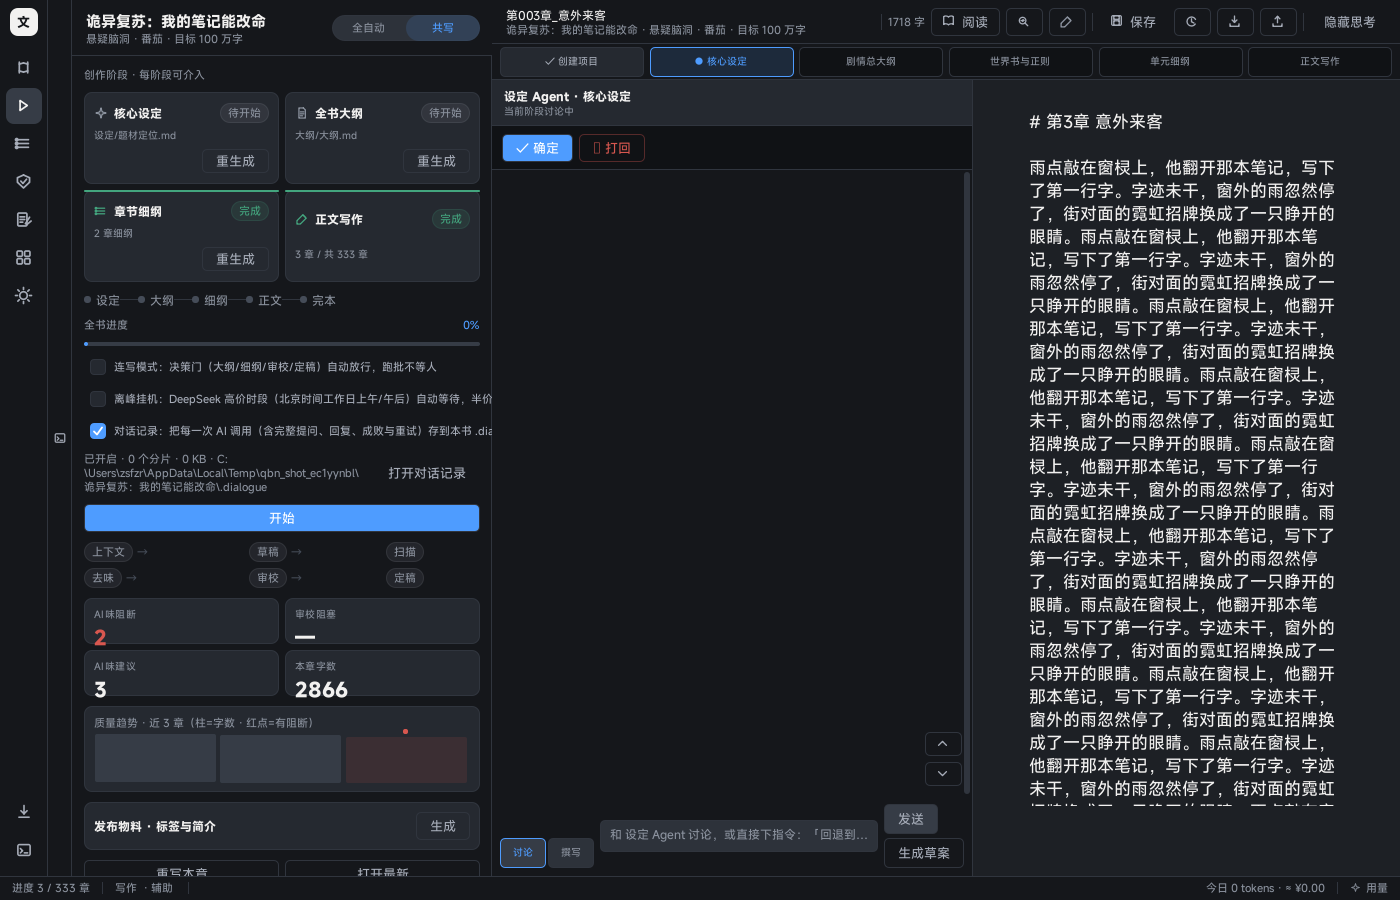
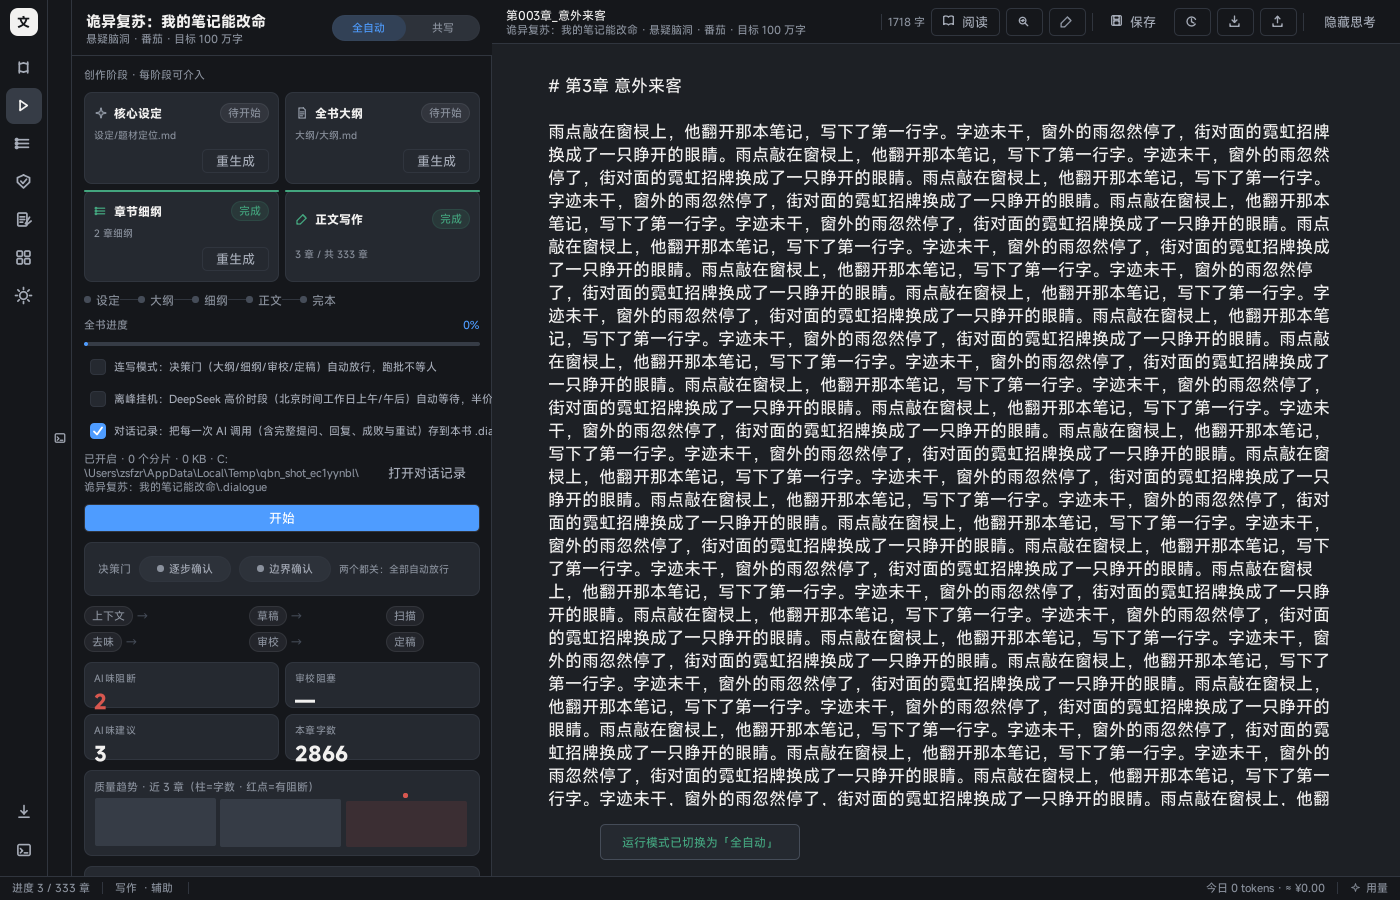
C03: 文档止血（hero/数字/check_docs；latest.json 待 S3 后）——hero 位 hero_cw.png 原与 shot_co_writing.png 字节级相同，改内容为 shot_pipeline.png（自动档驾驶舱）并同步 :20 说明、撤销 :179 重复贴图；README:383 1061 passed→实跑 collect 1244（tests/unit --co 口径，探针 50 核对一致）；CHANGELOG:1229 死锚 README.md#使用指南→examples/README.md；新增 scripts/check_docs.py 五

diff --git a/scripts/check_docs.py b/scripts/check_docs.py
@@ -1,0 +1,298 @@
+# -*- coding: utf-8 -*-
+"""check_docs.py —— 文档口径核对脚本（QW-D3 / C03）。
+
+五项检查，全部红/绿可判定（规格见 docs/落地计划附录A C03 卡 + _scratch/superiter/w4_docs.md §4.2）：
+
+  1. 数字口径：README.md / README.en.md 中的测试数与探针数必须等于本机实跑
+     `pytest tests/unit --collect-only` 的收集数与 tests/probe_*.py 实际个数
+     （抓的就是 README「1061 passed」「EN 594 tests / 44 probe」这类数字腐烂）。
+     口径说明：README 测试节的命令是 `pytest tests/unit -q`，所以核对基准取
+     tests/unit 收集数（全仓 --co 口径更大，不混用）。
+  2. 手册行数下限：docs/用户手册_v1.md ≥ 200 行（当前 236；手册 v2 扩容（C40，≥500）
+     落地后把 MANUAL_MIN_LINES 提到 500）。
+  3. 内链有效：扫描 README.md / README.en.md / CHANGELOG.md / docs/用户手册_v1.md /
+     docs/排障_v1.md / docs/README.md 的全部 markdown 相对链接（含图片），
+     目标文件不存在即红；指向 README.md / README.en.md 的 #锚点与同文件 #锚点
+     按 GitHub slug 规则核对（抓的就是 CHANGELOG 曾出现的 `README.md#使用指南` 死锚）。
+  4. 排障页文案对照：docs/排障_v1.md「错误对照表」每条屏幕文案必须能在 app/ 源码
+     里 grep 到（逐字碎片匹配：f-string 变量处写「…」或照抄 {name}，变量两侧的文案
+     必须逐字命中）——防文档文案与屏幕文案漂移，这是排障页的生命线。
+     表外章节（SmartScreen 等系统级提示）不在 app 内，不参与本检查。
+  5. 排障对照表条数 ≥10（当前 15+，每条含屏幕原文 → 含义 → 动作 → 报障包出口）。
+
+范围外（待其他批次后补，勿在此提前红灯）：
+  - latest.json 数字核对：待 S3 的 latest.json 改动合入后补（C03 该部分跳过）。
+  - CI 接线：待 S3 的 .github/workflows/tests.yml 改动合入后，在现有 job 尾部加一步
+    `python scripts/check_docs.py`（本轮不接 CI，本脚本仅本地手跑）。
+  - i18n 声明行检查项（README 顶部「界面语言：简体中文」声明存在性）：待 C12-i18n
+    落地后作为第 6 项检查扩入（TODO）。
+
+用法：.venv/Scripts/python.exe scripts/check_docs.py   （全绿退出码 0，任一红退出码 1）
+"""
+
+import re
+import subprocess
+import sys
+from pathlib import Path
+
+ROOT = Path(__file__).resolve().parent.parent
+
+MANUAL_MIN_LINES = 200          # 检查 2：手册行数下限（v2 扩容后提到 500）
+TROUBLE_TABLE_MIN_ROWS = 10     # 检查 5：排障对照表条数下限
+DOC_LINE_MIN_PREFIX = 6         # 检查 4：文案逐字前缀的最短长度（字符）
+
+LINK_SCAN_FILES = [
+    "README.md",
+    "README.en.md",
+    "CHANGELOG.md",
+    "docs/用户手册_v1.md",
+    "docs/排障_v1.md",
+    "docs/README.md",
+]
+
+ANCHOR_CHECK_TARGETS = {"README.md", "README.en.md"}   # 只对两份 README 核对 #锚点
+
+
+# ---------- 工具 ----------
+
+def _read(rel: str) -> str:
+    return (ROOT / rel).read_text(encoding="utf-8", errors="replace")
+
+
+def _strip_code_blocks(text: str) -> str:
+    """去掉 ``` 围栏代码块，避免把代码示例里的链接/数字当正文核对。"""
+    return re.sub(r"```.*?```", "", text, flags=re.S)
+
+
+def github_slug(heading: str) -> str:
+    """GitHub 风格锚 slug：小写、去标点（保留中日文/字母数字/空格/连字符）、空格转 -。"""
+    t = re.sub(r"[`*_]", "", heading.strip())
+    t = t.lower()
+    out = []
+    for ch in t:
+        if ch.isalnum() or "\u4e00" <= ch <= "\u9fff" or ch in " -_":
+            out.append(ch)
+    return "".join(out).replace(" ", "-")
+
+
+def headings_of(text: str) -> set:
+    slugs = set()
+    for m in re.finditer(r"(?m)^(#{1,6})\s+(.+?)\s*$", text):
+        slugs.add(github_slug(m.group(2)))
+    return slugs
+
+
+# ---------- 检查 1：数字口径 ----------
+
+def truth_numbers() -> dict:
+    """实跑 collect-only 取单测收集数 + 数 probe_*.py 个数。"""
+    proc = subprocess.run(
+        [sys.executable, "-m", "pytest", "tests/unit", "--co", "-q",
+         "--tb=no", "-p", "no:cacheprovider"],
+        cwd=str(ROOT), capture_output=True, text=True, encoding="utf-8",
+        errors="replace", timeout=180)
+    out = proc.stdout or ""
+    m = None
+    for line in out.splitlines():
+        mm = re.search(r"(\d+) tests? collected", line)
+        if mm:
+            m = mm
+    probes = sorted(p.name for p in (ROOT / "tests").glob("probe_*.py"))
+    return {"collect": int(m.group(1)) if m else -1,
+            "probes": len(probes), "pytest_ok": proc.returncode == 0 and m is not None}
+
+
+PATTERNS_COLLECT = [
+    (re.compile(r"收集\s*(\d+)\s*项"), "收集 N 项"),
+    (re.compile(r"(\d+)\s*passed\b"), "N passed"),
+    (re.compile(r"(\d+)\s*(?:offline\s+)?tests\b"), "N tests"),
+]
+PATTERNS_PROBES = [
+    (re.compile(r"共\s*(\d+)\s*支"), "共 N 支"),
+    (re.compile(r"(\d+)\s*probe_"), "N probe_*"),
+    (re.compile(r"probe_\*\.py\s*\*{0,2}\s*(\d+)"), "probe_*.py N"),
+]
+
+
+def check_numbers(fails: list) -> dict:
+    truth = truth_numbers()
+    if not truth["pytest_ok"]:
+        fails.append(f"[1] 无法取得实跑收集数（pytest --collect-only 失败），数字口径无从核对")
+        return truth
+    for rel in ("README.md", "README.en.md"):
+        # 数字多写在代码围栏的注释里（命令即口径），此处不剥代码块、全文件扫描
+        text = _read(rel)
+        for pat, label in PATTERNS_COLLECT:
+            for mm in pat.finditer(text):
+                n = int(mm.group(1))
+                if n != truth["collect"]:
+                    fails.append(f"[1] {rel}：{label}={n} ≠ 实跑收集数 {truth['collect']}"
+                                 f"（pytest tests/unit --co 口径）")
+        for pat, label in PATTERNS_PROBES:
+            for mm in pat.finditer(text):
+                n = int(mm.group(1))
+                if n != truth["probes"]:
+                    fails.append(f"[1] {rel}：{label}={n} ≠ 探针实数 {truth['probes']}"
+                                 f"（tests/probe_*.py 个数）")
+    return truth
+
+
+# ---------- 检查 2：手册行数下限 ----------
+
+def check_manual_lines(fails: list) -> int:
+    rel = "docs/用户手册_v1.md"
+    n = len((ROOT / rel).read_text(encoding="utf-8", errors="replace").splitlines())
+    if n < MANUAL_MIN_LINES:
+        fails.append(f"[2] {rel} 只有 {n} 行 < 下限 {MANUAL_MIN_LINES}（手册被误删/大幅缩水？）")
+    return n
+
+
+# ---------- 检查 3：内链有效 ----------
+
+LINK_RE = re.compile(r"\]\(([^)\s]+)\)")
+
+
+def check_links(fails: list) -> dict:
+    stats = {"links": 0, "anchors": 0}
+    heading_cache = {}
+    for rel in LINK_SCAN_FILES:
+        path = ROOT / rel
+        if not path.exists():
+            continue
+        base = path.parent
+        text = _strip_code_blocks(path.read_text(encoding="utf-8", errors="replace"))
+        if rel not in heading_cache:
+            heading_cache[rel] = headings_of(text)
+        for mm in LINK_RE.finditer(text):
+            target = mm.group(1)
+            if target.startswith(("http://", "https://", "mailto:", "<")):
+                continue
+            stats["links"] += 1
+            if target.startswith("#"):   # 同文件锚
+                stats["anchors"] += 1
+                if target[1:] not in heading_cache[rel]:
+                    fails.append(f"[3] {rel}：同文件死锚 {target}")
+                continue
+            file_part, _, anchor = target.partition("#")
+            tp = (base / file_part).resolve()
+            if not tp.exists():
+                fails.append(f"[3] {rel}：链接目标不存在 → {target}")
+                continue
+            if anchor and file_part in ANCHOR_CHECK_TARGETS:
+                stats["anchors"] += 1
+                trel = str(tp.relative_to(ROOT)).replace("\\", "/")
+                if trel not in heading_cache:
+                    heading_cache[trel] = headings_of(_strip_code_blocks(_read(trel)))
+                if anchor not in heading_cache[trel]:
+                    fails.append(f"[3] {rel}：死锚 {target}（{trel} 无此标题锚）")
+    return stats
+
+
+# ---------- 检查 4/5：排障页文案对照与条数 ----------
+
+def _app_sources() -> tuple:
+    raws, joined = [], []
+    for p in sorted((ROOT / "app").rglob("*.py")):
+        if "__pycache__" in p.parts:
+            continue
+        t = p.read_text(encoding="utf-8", errors="replace")
+        raws.append(t)
+        # Python 隐式字符串拼接（"abc"\n"def"）拼合，容忍跨源码行的长文案
+        joined.append(re.sub(r'"\s*\n\s*"', "", t))
+    return "".join(raws), "".join(joined)
+
+
+def _fragments(span: str) -> list:
+    """把文案切成可逐字 grep 的碎片：f-string 变量写「{name}」或「…」，变量两侧都逐字。"""
+    parts = re.split(r"…|\{[^{}]*\}", span)
+    return [p.strip() for p in parts if p.strip()]
+
+
+def trouble_table_rows(text: str) -> list:
+    """取「错误对照表」小节的表格数据行（跳过表头与分隔行）。"""
+    lines = text.splitlines()
+    start = end = None
+    for i, ln in enumerate(lines):
+        if ln.startswith("#") and "错误对照表" in ln:
+            start = i
+            break
+    if start is None:
+        return []
+    for j in range(start + 1, len(lines)):
+        if lines[j].startswith("#"):   # 下一个小节
+            end = j
+            break
+    end = end if end is not None else len(lines)
+    rows = []
+    for ln in lines[start:end]:
+        if ln.strip().startswith("|") and not re.match(r"^\s*\|[\s:\-|]+\|\s*$", ln):
+            cells = [c.strip() for c in ln.strip().strip("|").split("|")]
+            if cells and cells[0].isdigit():   # 数据行（表头 #、分隔行已排除）
+                rows.append(cells)
+    return rows
+
+
+def check_troubleshoot(fails: list) -> dict:
+    rel = "docs/排障_v1.md"
+    path = ROOT / rel
+    if not path.exists():
+        return {"skip": True, "rows": 0, "grep_ok": 0}
+    text = _strip_code_blocks(path.read_text(encoding="utf-8", errors="replace"))
+    rows = trouble_table_rows(text)
+    stats = {"skip": False, "rows": len(rows), "grep_ok": 0}
+    if len(rows) < TROUBLE_TABLE_MIN_ROWS:
+        fails.append(f"[5] {rel} 错误对照表只有 {len(rows)} 条 < {TROUBLE_TABLE_MIN_ROWS}")
+    raw_src, joined_src = _app_sources()
+    for cells in rows:
+        spans = re.findall(r"`([^`]+)`", " | ".join(cells))
+        hit = None
+        for span in spans:
+            for frag in _fragments(span):
+                if len(frag) < DOC_LINE_MIN_PREFIX:
+                    continue
+                if frag in raw_src or frag in joined_src:
+                    hit = frag
+                    break
+            if hit:
+                break
+        if hit is None:
+            fails.append(f"[4] {rel} 对照表第 {cells[0]} 条：屏幕文案在 app/ 源码里 grep 不到"
+                         f"（逐字碎片均未命中）→ {' | '.join(cells)[:80]}…")
+        else:
+            stats["grep_ok"] += 1
+    return stats
+
+
+# ---------- 主流程 ----------
+
+def main() -> int:
+    fails: list = []
+    truth = check_numbers(fails)
+    manual_lines = check_manual_lines(fails)
+    links = check_links(fails)
+    trouble = check_troubleshoot(fails)
+
+    print("=" * 64)
+    print("check_docs —— 文档口径核对（规格：C03/QW-D3，w4_docs §4.2）")
+    print("=" * 64)
+    print(f"实跑口径：tests/unit 收集 {truth['collect']} 项；"
+          f"探针 {truth['probes']} 支；手册 {manual_lines} 行；"
+          f"内链 {links['links']} 条（其中锚点 {links['anchors']} 条）")
+    if trouble.get("skip"):
+        print("[4]/[5] SKIP：docs/排障_v1.md 尚未创建（待 C13）")
+    else:
+        print(f"[4] 排障文案对照：{trouble['grep_ok']}/{trouble['rows']} 条可逐字 grep 到 app/ 源码")
+        print(f"[5] 对照表条数：{trouble['rows']}（下限 {TROUBLE_TABLE_MIN_ROWS}）")
+    print("-" * 64)
+    if fails:
+        for f in fails:
+            print("FAIL", f)
+        print(f"结果：红，{len(fails)} 处不合格")
+        return 1
+    print("结果：绿（5 项检查全部通过"
+          + ("；4/5 因排障页未创建而 SKIP）" if trouble.get("skip") else "）"))
+    return 0
+
+
+if __name__ == "__main__":
+    sys.exit(main())

diff --git a/CHANGELOG.md b/CHANGELOG.md
@@ -1226,7 +1226,7 @@ V1.0.0 正式版前最后一个版本：人 AI 共写工作台整体升级（六
 
 - **UI 重叠（重要修复）**：连接页三张卡片（连接信息/模型参数/槽位绑定）、流水线页当前章状态卡、书架新建对话框三个分组——卡片容器 `Rectangle` 无显式高度导致内容全部溢出重叠。修复为高度绑定内部内容列（实测卡片高度 300/194/194px 正常）
 - **书架清理**：清除历史测试残留的 recent_projects（"诡异复苏"等临时项目记录），内置示例小说《改命笔记》进入书架并作为默认打开项目
-- 新增 `examples/改命笔记/` 完整示例（详见 [README](README.md#使用指南)）
+- 新增 `examples/改命笔记/` 完整示例（详见 [examples/README.md](examples/README.md)）
 
 ### 验证
 
